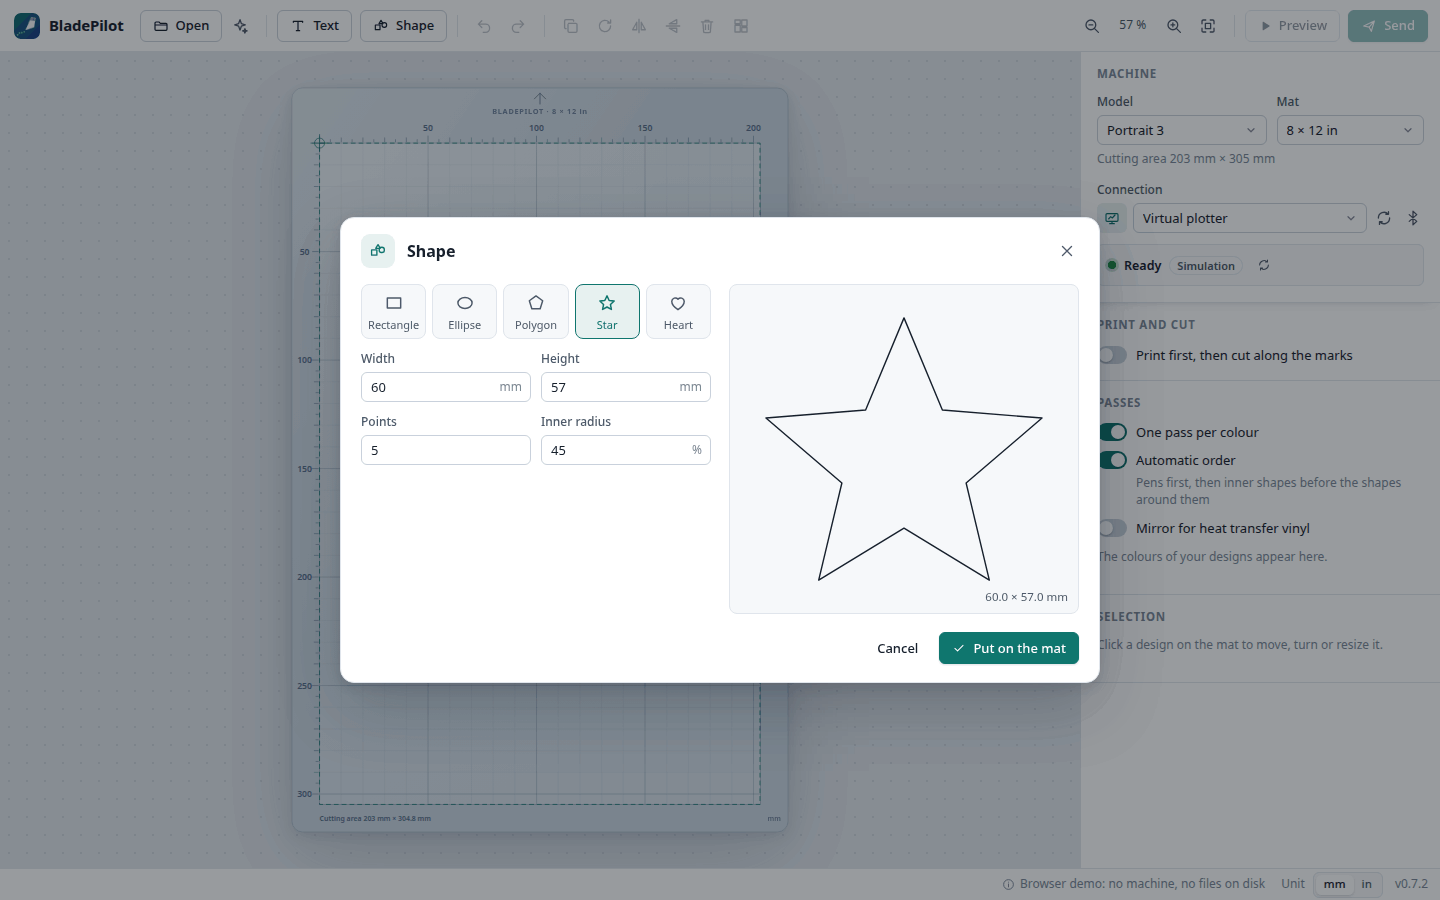
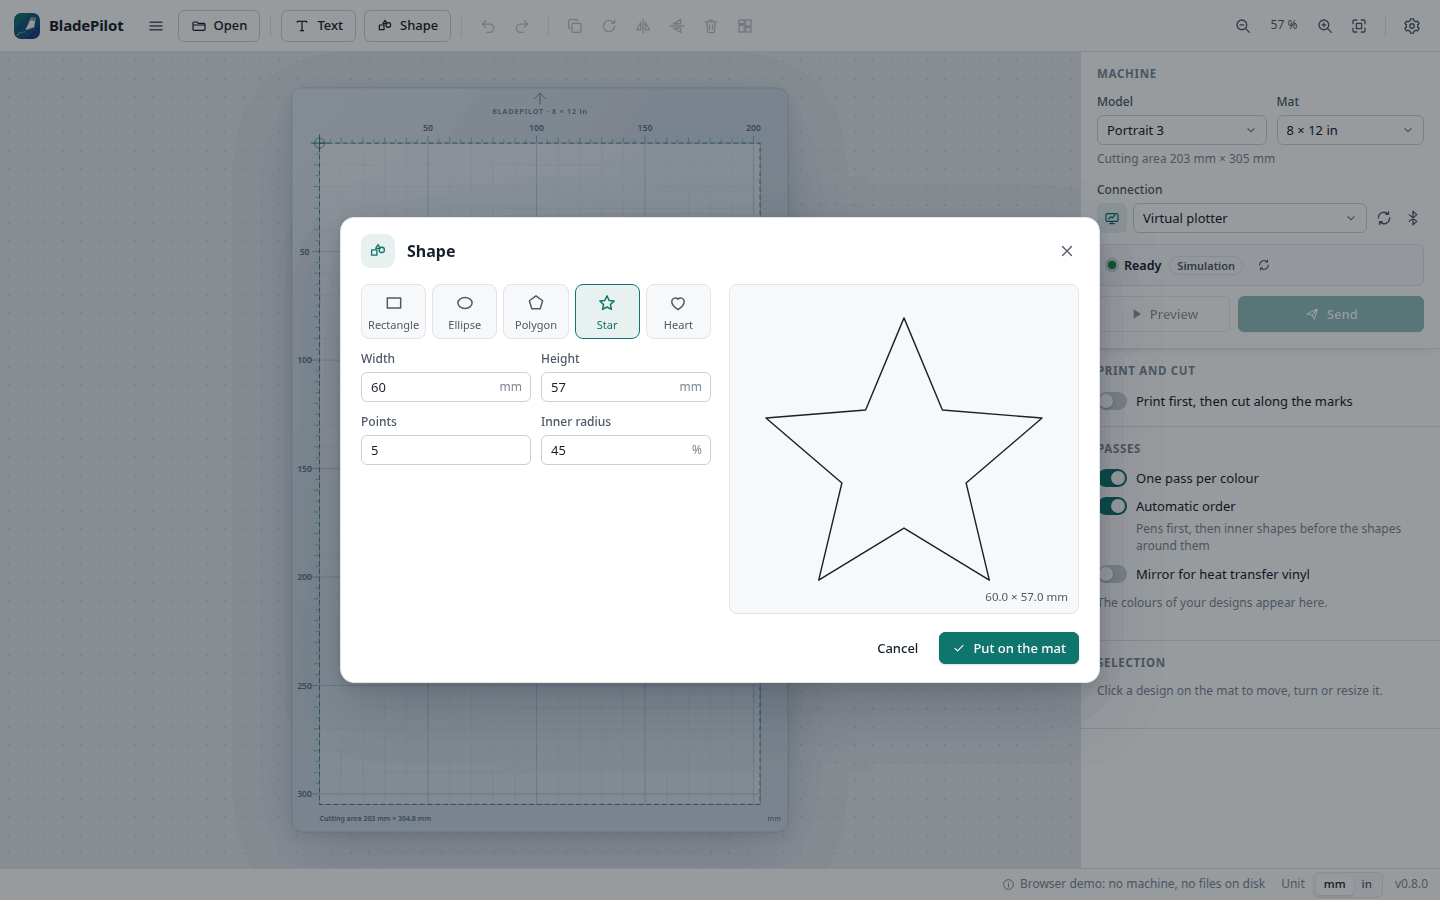
Release 0.8.0 preparation: changelog, docs, screenshots

diff --git a/docs/ARCHITECTURE.md b/docs/ARCHITECTURE.md
@@ -12,7 +12,7 @@
 | Crate | Job |
 |---|---|
 | `bladepilot-machines` | What each machine is: USB ids, protocol generation, holders, cutting width, longest feed, mats. |
-| `bladepilot-design` | Reads SVG with `usvg`, PDF with `lopdf` (a small content-stream interpreter for paths, transforms, colours and forms), DXF with `dxf` and Silhouette Studio documents with `craft-silhouette-studio` into one model: Bézier paths in mm, `(x right, y down)` from the page's top-left corner, with outline and fill colours, and pictures with their traced edges. Makes shapes and sets text with the system's fonts (through `usvg`). Flattens curves into polylines; works out contours at a distance, the outermost lines, and weeding boxes and lines that keep clear of the design. |
+| `bladepilot-design` | Reads SVG with `usvg`, PDF with `lopdf` (a small content-stream interpreter for paths, transforms, colours and forms), DXF with `dxf` and Silhouette Studio documents with `craft-silhouette-studio` into one model: Bézier paths in mm, `(x right, y down)` from the page's top-left corner, with outline and fill colours, and pictures with their traced edges. Makes shapes and sets text with the system's fonts (through `usvg`). Flattens curves into polylines; works out contours at a distance, the outermost lines, and weeding boxes and lines that keep clear of the design; welds overlapping outlines (`i_overlay`), tidies lines (joins pieces, drops doubles), and draws digits as single strokes for labels. |
 | `bladepilot-job` | Turns a design into a plan: flatten within a tolerance (0.02 mm by default), move onto the mat, group into passes, order, check against the cutting area. Encodes a plan with `craft-plotter`. |
 | `bladepilot-sim` | The virtual plotter. Parses the byte stream like a machine, keeps the head position, answers queries, records cuts and lifted moves, warns, draws SVG. |
 | `bladepilot-device` | The `Transport` trait and the `Session` that runs a job: initialise, wait until ready, stream, wait for marks, wait until done. A `JobControl` pauses (at the next lifted move), resumes and stops (lift, park) a job from another thread, and the session pauses by itself before a pass that needs another tool. Transports: the virtual plotter; USB through nusb on Linux and macOS; on Windows the USB printer class driver (`usbprint.sys`), which Silhouette Studio uses too, so no driver has to be replaced. |
@@ -20,7 +20,7 @@
 | `bladepilot-print` | Print and cut: the registration-mark layout (a square at the top left, brackets at the top right and bottom left), the keep-out areas around the marks, and the sheet as a PDF with the pictures and the marks. |
 | `bladepilot-capture` | Reads USB captures (pcap, pcapng) from USBPcap and usbmon, finds the machine and splits its traffic into commands and replies, for `bladepilot replay`. |
 | `bladepilot-cli` | The `bladepilot` command line. |
-| `bladepilot-desktop` | The desktop app (`apps/desktop/src-tauri`): Tauri commands over the crates above. `service.rs` does the work without Tauri (imports, plans, the virtual plotter run behind the preview, jobs on their own thread), `model.rs` holds the JSON types the front end mirrors. |
+| `bladepilot-desktop` | The desktop app (`apps/desktop/src-tauri`): Tauri commands over the crates above. `service.rs` does the work without Tauri (imports, plans, the virtual plotter run behind the preview, jobs on their own thread, projects with the designs' files inside, the log behind the diagnosis), `model.rs` holds the JSON types the front end mirrors. |
 
 ## Desktop app
 
@@ -84,4 +84,5 @@
 | resvg | Apache-2.0 OR MIT | Drawing SVG artwork for the print sheet |
 | pdf-writer, miniz_oxide | MIT OR Apache-2.0 (miniz_oxide also Zlib) | The print sheet |
 | lopdf | MIT | PDF import |
+| i_overlay | MIT OR Apache-2.0 | Welding outlines |
 | dxf | MIT | DXF import |

diff --git a/docs/ROADMAP.md b/docs/ROADMAP.md
@@ -65,7 +65,18 @@ the virtual plotter first, then checked against the real machine on a
 - [x] Mirror everything for heat transfer vinyl
 - [x] Material profiles per colour: built-in starting values (BladePilot's own) and the user's
       own, saved under a name; heat transfer vinyl switches the mirror on
-- [ ] File associations on Windows and macOS; remember the last session
+- [x] Projects: save and open `.bladepilot` files with the designs inside, recent projects, the
+      last session kept automatically and offered at the next start; New
+- [x] Multiple selection: box and Shift-click, move, turn and resize together, align, distribute,
+      group, lock in place
+- [x] Weld overlapping outlines (also for text in script fonts); tidy lines: join pieces that
+      meet, cut lines drawn twice once (DXF files are tidied on import)
+- [x] Tool per pass (AutoBlade, ratchet, deep-cut, kraft, rotary blade, pen) with materials for
+      blades and the pen, a warning when the machine reports another tool
+- [x] Settings: measurements and the mat's grid apart (inch grid like the real mat), light or
+      dark, language, where test cuts start, corrections per machine; a diagnosis to save
+- [x] Preview and Send under the machine status, the connection always in sight
+- [ ] File associations on Windows and macOS
 - [ ] Web demo on GitHub Pages: the front end with the planner compiled to WebAssembly
 
 ## Phase 4: print and cut
@@ -75,7 +86,9 @@ the virtual plotter first, then checked against the real machine on a
 - [ ] Mark search with three marks: written, waits for the hardware test (T5); four marks and
       manual positioning later
 - [ ] Print and cut on the command line
-- [ ] Calibration sheet and stored offsets per machine
+- [x] Calibration sheet (marks and printed rulers; the machine draws crosses on the targets) and
+      corrections per machine, for print and cut and for the mat (alignment test); to be tried on
+      a machine
 
 ## Phase 5: hardware test days
 
@@ -99,15 +112,11 @@ the virtual plotter first, then checked against the real machine on a
 - [ ] Bluetooth on macOS (IOBluetooth); until then the app says to use USB
 - [ ] Bluetooth Low Energy: find out what the Portrait 4 offers over GATT; if it carries the
       same bytes, a second transport (also a way to Bluetooth on macOS)
-- [ ] Tools per pass instead of pens hidden in the colour list: action (cut, draw) and the
-      machine's tools (AutoBlade, ratchet, deep-cut, kraft, rotary blade, sketch pen), material
-      profiles per tool, a warning when the machine reports another tool
 - [ ] Signed Windows builds: Smart App Control blocks a fresh unsigned release, above all a
       browser download (seen with 0.4.0's command line; the desktop installer got through).
       Free for open source through the SignPath Foundation, signing in the release workflow
 - [ ] Move the head with the arrow keys before a job or a test cut
 - [ ] Text in the PDF import (glyph outlines); DXF text and hatches
-- [ ] Text: weld overlapping letters of script fonts into one outline
 - [ ] Cameo-only features as experimental: second tool holder, electrostatic mat
 
 ## Open points in other projects BladePilot means to solve
@@ -153,7 +162,7 @@ the everyday job are made in the app.
 | Mirror for heat transfer vinyl | done |
 | Open PDF and DXF | done (vector paths; text in PDFs must be converted to paths) |
 | Bluetooth | Windows and Linux: done, experimental; macOS later |
-| Design tools: shapes, text, weld, knife, sketch fills | text and simple shapes: done; weld, knife, sketch fills: not planned, use Inkscape |
+| Design tools: shapes, text, weld, knife, sketch fills | text, simple shapes and weld: done; knife and sketch fills: not planned, use Inkscape |
 | Design store, library, cloud | out of scope |
 | Firmware updates | out of scope |
 

diff --git a/README.md b/README.md
@@ -51,9 +51,22 @@ line.
 - **Vinyl:** a weeding box around a design and weeding lines through the waste, cut last in a
   pass of their own; a switch that mirrors everything for heat transfer vinyl; copies put into
   free spots and **Arrange** to fit the designs onto little material.
-- **Material profiles:** starting settings for paper, cardstock, sticker paper, vinyl, heat
-  transfer vinyl and pens (BladePilot's own rough values: check them with a test cut), and
-  your own profiles saved under a name.
+- **Tools and materials:** per pass the tool in the holder (AutoBlade, ratchet, deep-cut, kraft
+  or rotary blade, pen) and a material to start from (paper, cardstock, sticker paper, vinyl,
+  heat transfer vinyl; paper and cardstock for the pen). The values are BladePilot's own rough
+  ones: check them with a test cut and save your own under a name. BladePilot warns when the
+  machine reports another tool than the job needs.
+- **Projects:** save the mat with its designs, settings and colours as a `.bladepilot` file and
+  open it again anywhere; the last session is kept automatically and offered at the next start.
+- **Arrange like in a drawing program:** select several designs with a box or Shift-click, move,
+  turn and resize them together, align and distribute them, group them, lock them in place, and
+  weld overlapping outlines into one. Tidy lines joins pieces that meet (DXF files arrive
+  tidied) and cuts lines drawn twice only once.
+- **Alignment and calibration:** an alignment test draws numbered nested corners at the edges
+  of a sheet, so you read off how far the machine is out; a calibration sheet does the same for
+  print and cut. The corrections are kept per machine.
+- **Settings:** the mat's grid in inches like the real mat while measuring in millimetres, light
+  or dark, English or German, where test cuts start; a diagnosis to save for bug reports.
 - **Pictures and stickers:** open PNG, JPEG, WebP, BMP or GIF; BladePilot traces their edges
   (from transparency or from the dark parts, with a threshold and ignoring specks) and cuts
   them, or cuts a contour at a chosen distance around the whole picture.
@@ -104,7 +117,8 @@ and **Send** has the machine find the marks before it cuts.
 
 ![Print and cut: stickers on an A4 sheet with registration marks, the contours in magenta](docs/images/desktop-print.png)
 
-For vinyl, **Text** and **Shape** in the toolbar make designs right in the app. In the selection
+Start with **Text**, **Shape** or a file from the start screen, or the menu's **New**. For vinyl,
+**Text** and **Shape** in the toolbar make designs right in the app. In the selection
 panel a design gets a weeding box (with weeding lines through the waste) and copies; the
 arrange button fits everything onto little material. Choose a material for each colour, and
 switch on **Mirror for heat transfer vinyl** when the film is cut from the back.
@@ -113,6 +127,11 @@ switch on **Mirror for heat transfer vinyl** when the film is cut from the back.
   <img alt="Shapes on the mat, each in a dashed weeding box, the weeding pass listed after the black one" src="docs/images/desktop-vinyl.png" width="49%">
   <img alt="The shape dialog: a star with its points and inner radius, the preview on the right" src="docs/images/desktop-make.png" width="49%">
 </p>
+
+Before the first real job, the **alignment test** (Settings) shows on a sheet in the grid's
+corner how far the machine draws out; BladePilot keeps the correction for that machine:
+
+![The alignment test: numbered nested corners at the edges of an A4 sheet, the dialog with the sheet size and the pen](docs/images/desktop-align.png)
 
 The colour list holds each colour's tool and settings and remembers them for the next design.
 Dark mode follows the system:

diff --git a/CHANGELOG.md b/CHANGELOG.md
@@ -1,5 +1,39 @@
 # Changelog
 
+## 0.8.0 – 2026-11-28
+
+Working like in a professional program: projects, several designs at once, tools, and checking
+where the machine cuts.
+
+- **Projects:** save the mat as a `.bladepilot` file (designs, placements, cut settings, colours,
+  print and cut), open it again anywhere, recent projects in the new file menu. The last session
+  is kept automatically and offered at the next start. **New** starts an empty mat and asks
+  before unsaved changes are lost; the start screen offers text, shape or a file.
+- **Several designs at once:** select with a box or Shift-click (Ctrl+A for all), move, turn and
+  resize them together, align left, right, top, bottom or to the middle, distribute evenly,
+  group (Ctrl+G), lock in place. A single design aligns to the cutting area.
+- **Weld and tidy:** overlapping outlines become one (also as an option for text in script
+  fonts); tidying joins line pieces that meet into continuous lines and cuts lines drawn twice
+  once. DXF drawings are tidied when they are opened.
+- **Tools per pass:** AutoBlade, ratchet, deep-cut, kraft or rotary blade, or the pen. Only the
+  AutoBlade's depth goes to the machine; for blades set by hand it is a reminder. Materials come
+  per tool (paper and cardstock for the pen), and the send dialog warns when the machine reports
+  another tool than the first pass needs.
+- **Alignment test and corrections:** numbered nested corners at the edges of an A4 or Letter
+  sheet show how far the machine draws out; the reading becomes a correction kept per machine.
+  For print and cut, a calibration sheet with printed rulers, where the machine draws crosses
+  after finding the marks. Both still to be tried on a machine.
+- **Settings:** measurements and the mat's grid apart (an inch grid like the real mat while
+  measuring in millimetres), light, dark or the system's, English or German, where test cuts
+  start, the corrections; **Save diagnosis** collects versions, the system, the machines found
+  and the latest log for bug reports.
+- **Preview and Send** moved under the machine status, so they never fall off a narrow window;
+  the toolbar shows icons only when the window is narrow.
+- **Downloads:** the command line comes with the desktop app's deb and rpm packages; on its own
+  only as archives (Linux tar.gz, Windows exe, macOS tar.gz), no more AppImage or packages of its
+  own. The release notes start with a table of which file to take.
+- Errors in the send dialog come with a hint what to do.
+
 ## 0.7.2 – 2026-11-28
 
 From the first test on Linux (Portrait 4, Fedora, USB and Bluetooth).

diff --git a/CLAUDE.md b/CLAUDE.md
@@ -42,7 +42,7 @@ Read [docs/CLEAN-ROOM.md](docs/CLEAN-ROOM.md) before touching protocol or file-f
 | Path | What |
 |---|---|
 | `crates/machines` | Model table: USB ids, protocol generation, cutting width, mats |
-| `crates/design` | SVG, PDF, DXF, `.studio`/`.studio3` and picture import into one model (mm, y down); text and shapes; contours, outermost lines, weeding lines |
+| `crates/design` | SVG, PDF, DXF, `.studio`/`.studio3` and picture import into one model (mm, y down); text and shapes; contours, outermost lines, weeding lines, welding, tidying lines |
 | `crates/job` | Flatten, place, group into passes, order, check, encode via craft-plotter |
 | `crates/sim` | Virtual plotter: parses the byte stream, answers queries, draws SVG |
 | `crates/device` | Transports (virtual; USB via nusb; Windows printer class driver) and the job protocol (`Session`) |
@@ -116,6 +116,6 @@ npm run screenshots           # README images into docs/images (headless Chrome,
 BLESS=1 cargo test -p bladepilot-desktop   # after changing machines or the demo design: mock JSON
 ```
 
-`?connected` (a pretend Portrait 4 on USB), `?demo`, `?shapes`, `?make=text|shape`, `?select`, `?preview=0.6`, `?send=change|start`, `?test`, `?print`, `?lang=de` and `?theme=dark` put the
+`?connected` (a pretend Portrait 4 on USB), `?demo`, `?shapes`, `?multi`, `?settings`, `?align`, `?make=text|shape`, `?select`, `?preview=0.6`, `?send=change|start`, `?test`, `?print`, `?lang=de` and `?theme=dark` put the
 front end into fixed states for screenshots; in `npm run tauri dev` the variable `VITE_STATE` does the
 same inside the window (e.g. `VITE_STATE='demo&send=start'`).
